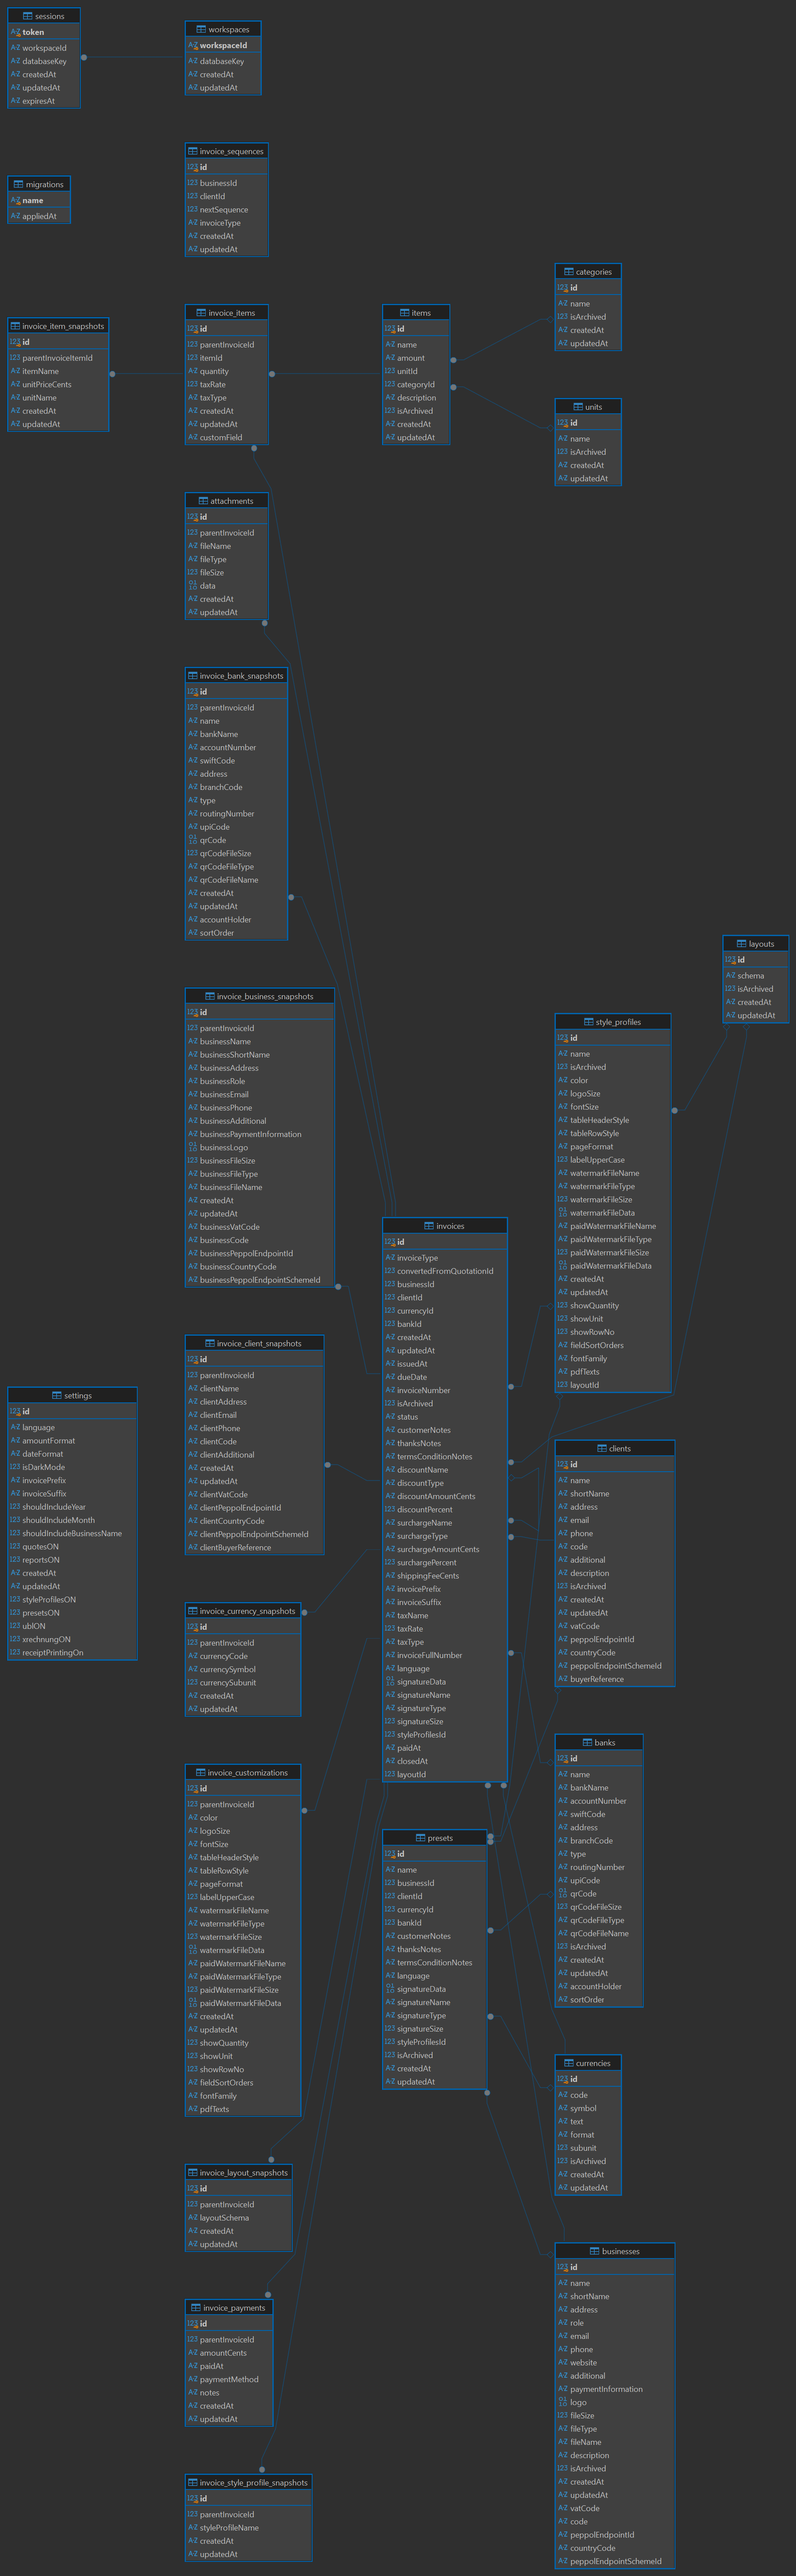
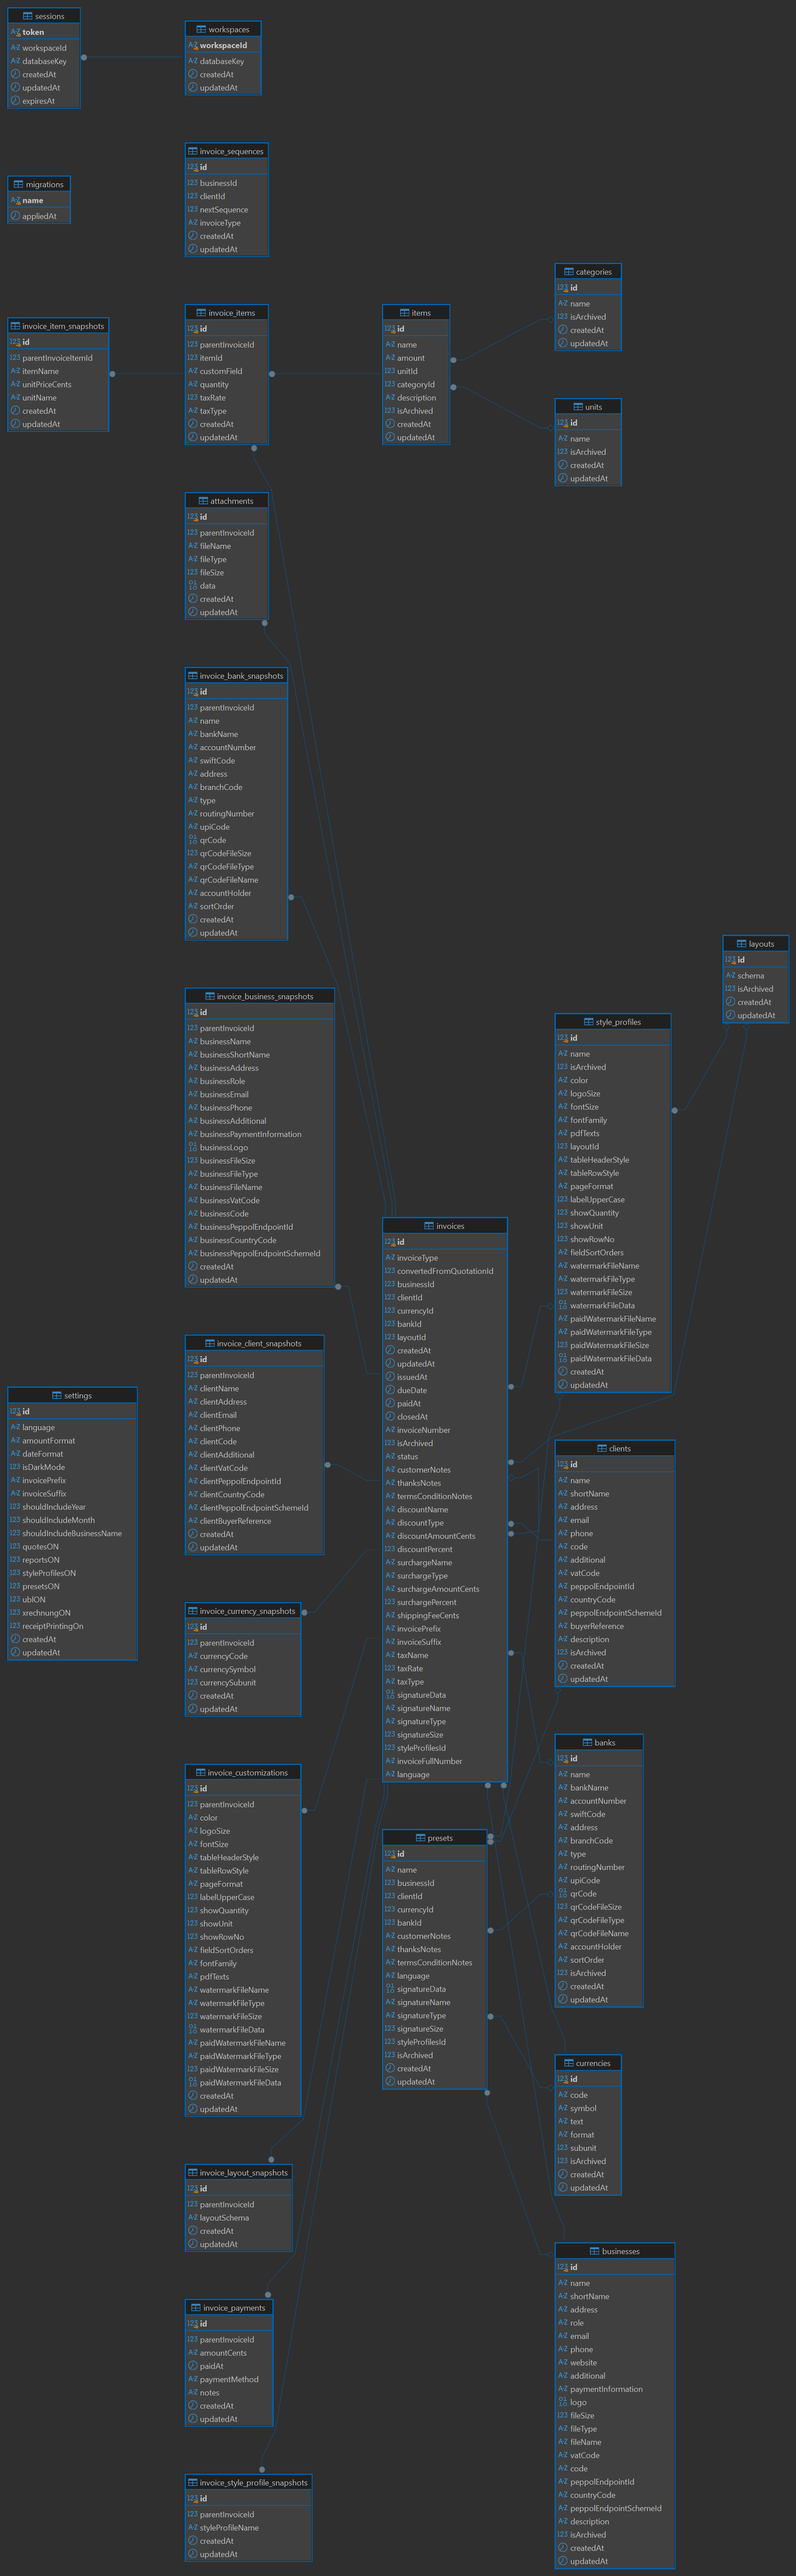
fixes

diff --git a/src/backend/webserver/session.ts b/src/backend/webserver/session.ts
@@ -49,17 +49,17 @@ const rowToSession = (row: StoredSession): WebSession => ({
 
 const persistSession = async (session: WebSession, db: DatabaseAdapter, updatedAt = new Date().toISOString()) => {
   await db.run(
-    'INSERT INTO workspaces (workspaceId, databaseKey, createdAt, updatedAt) VALUES (?, ?, ?, ?) ON CONFLICT(workspaceId) DO UPDATE SET databaseKey = excluded.databaseKey, updatedAt = excluded.updatedAt',
+    'INSERT INTO workspaces ("workspaceId", "databaseKey", "createdAt", "updatedAt") VALUES (?, ?, ?, ?) ON CONFLICT("workspaceId") DO UPDATE SET "databaseKey" = excluded."databaseKey", "updatedAt" = excluded."updatedAt"',
     [session.workspaceId, session.databaseKey ?? null, session.createdAt, updatedAt]
   );
   await db.run(
-    'INSERT INTO sessions (token, workspaceId, databaseKey, createdAt, updatedAt, expiresAt) VALUES (?, ?, ?, ?, ?, ?) ON CONFLICT(token) DO UPDATE SET databaseKey = excluded.databaseKey, updatedAt = excluded.updatedAt, expiresAt = excluded.expiresAt',
+    'INSERT INTO sessions ("token", "workspaceId", "databaseKey", "createdAt", "updatedAt", "expiresAt") VALUES (?, ?, ?, ?, ?, ?) ON CONFLICT("token") DO UPDATE SET "databaseKey" = excluded."databaseKey", "updatedAt" = excluded."updatedAt", "expiresAt" = excluded."expiresAt"',
     [session.token, session.workspaceId, session.databaseKey ?? null, session.createdAt, updatedAt, session.expiresAt]
   );
 };
 
 const deleteSession = async (token: string, db?: DatabaseAdapter) => {
-  if (db) await db.run('DELETE FROM sessions WHERE token = ?', [token]);
+  if (db) await db.run('DELETE FROM sessions WHERE "token" = ?', [token]);
   sessions.delete(token);
 };
 
@@ -69,7 +69,7 @@ export const getSession = async (token?: string, db?: DatabaseAdapter): Promise<
   if (context?.databaseKey && db && context.databaseKey !== findDatabaseKey(db)) return undefined;
   let session = context?.session;
   if (!session && db) {
-    const row = await db.get<StoredSession>('SELECT * FROM sessions WHERE token = ?', [token]);
+    const row = await db.get<StoredSession>('SELECT * FROM sessions WHERE "token" = ?', [token]);
     if (row) {
       session = rowToSession(row);
       sessions.set(token, { session, databaseKey: session.databaseKey, db });
@@ -103,7 +103,7 @@ export const bindSessionDatabase = async (token: string, databaseKey: string, db
   if (!session) throw new Error('error.sessionExpired');
   const existing = sessions.get(token);
   const workspace = await db.get<{ databaseKey: string | null }>(
-    'SELECT databaseKey FROM workspaces WHERE workspaceId = ?',
+    'SELECT "databaseKey" FROM workspaces WHERE "workspaceId" = ?',
     [session.workspaceId]
   );
   const existingDatabaseKey = existing?.databaseKey ?? workspace?.databaseKey;
@@ -130,8 +130,8 @@ export const expireSessions = async () => {
   const databases = [...new Set([...sessions.values()].map(context => context.db).filter(Boolean))];
   await Promise.all(
     databases.map(async db => {
-      await db!.run('DELETE FROM sessions WHERE expiresAt <= ?', [now]);
-      await db!.run('DELETE FROM workspaces WHERE workspaceId NOT IN (SELECT DISTINCT workspaceId FROM sessions)');
+      await db!.run('DELETE FROM sessions WHERE "expiresAt" <= ?', [now]);
+      await db!.run('DELETE FROM workspaces WHERE "workspaceId" NOT IN (SELECT DISTINCT "workspaceId" FROM sessions)');
     })
   );
   for (const [token, context] of sessions) {

diff --git a/src/backend/webserver/controllers/database.ts b/src/backend/webserver/controllers/database.ts
@@ -33,7 +33,7 @@ export const initDatabaseController = (app: Express) => {
     try {
       const postgresConfig = req.body;
 
-      if (postgresConfig.host === 'localhost') {
+      if (backendConfig.nodeEnvironment === 'docker' && postgresConfig.host === 'localhost') {
         postgresConfig.host = 'host.docker.internal';
       }
 
